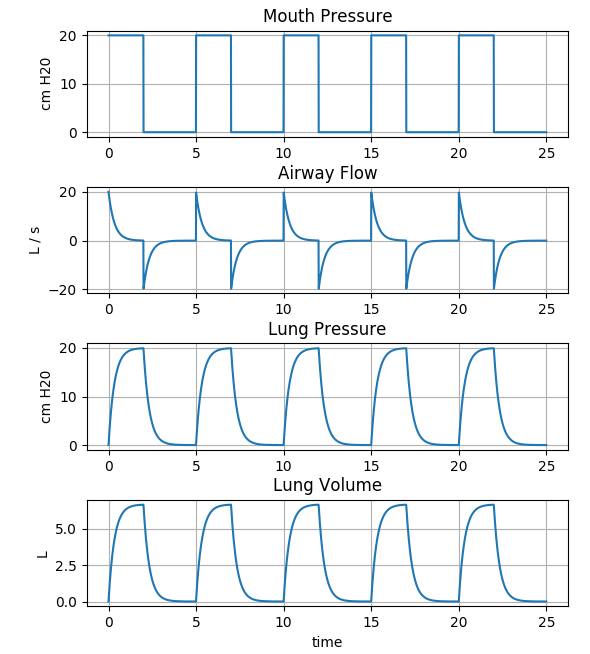
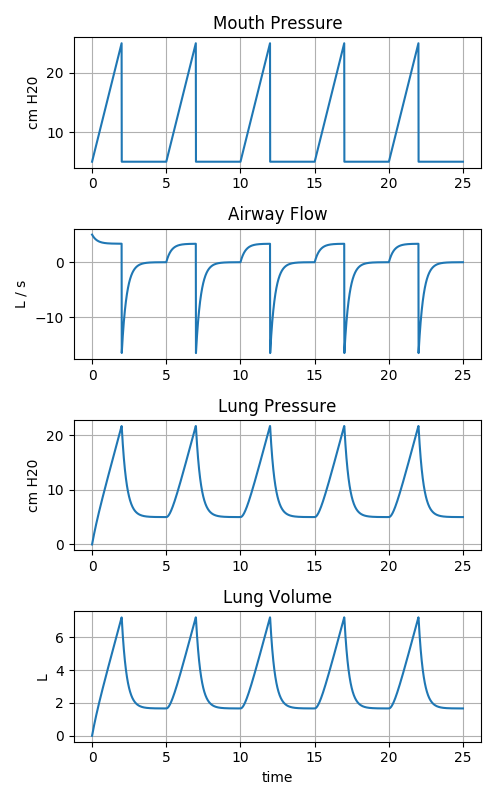
switch to ramp excitation

Changed region(s): [[0.03, 0.0, 0.99, 1.0], [0.06, 0.8257, 0.09, 0.8563]]

diff --git a/simulation/cycle.py b/simulation/cycle.py
@@ -7,7 +7,7 @@ sample_rate = 100
 rate = 12 # (breaths / min)
 time_inspiration = 2 # (s)
 pressure_level = 20 # peak pressure (cm H20)
-peep = 0 # (cm H20)
+peep = 5 # (cm H20)
 simulated_cycles = 5
 
 lung_compliance = 0.3 # (L / cm H20)
@@ -25,13 +25,13 @@ t = np.linspace(
 
 v_mouth = np.zeros(int(total_cycle_time * sample_rate))
 # rect
-v_mouth[:time_inspiration * sample_rate] = pressure_level
+# v_mouth[:time_inspiration * sample_rate] = pressure_level
 # ramp
-# v_mouth[:time_inspiration * sample_rate] = np.linspace(
-#     0,
-#     pressure_level,
-#     time_inspiration * sample_rate
-# )
+v_mouth[:time_inspiration * sample_rate] = np.linspace(
+    0,
+    pressure_level,
+    time_inspiration * sample_rate
+)
 v_mouth += peep
 v_mouth = np.tile(v_mouth, simulated_cycles)
 

diff --git a/notes.md b/notes.md
@@ -1,0 +1,91 @@
+- alarm - SFM-27 https://www.youtube.com/watch?v=LLGMlErc0yQ
+- esp8266 bulk US - https://www.ebay.com/itm/5X-ESP8266-ESP-12E-802-11n-WIFI-USB-Development-Board-Arduino-MicroPython-5-Pack/132532596048?hash=item1edb8eed50:g:Z3QAAOSwsnVdyOf-
+
+- esp8266 bulk - https://www.aliexpress.com/item/32665100123.html?spm=a2g0o.productlist.0.0.3ffc15495JaD23&algo_pvid=1e29147f-2a71-40df-94b8-4b58d9622e4f&algo_expid=1e29147f-2a71-40df-94b8-4b58d9622e4f-0&btsid=0ab6d69f15850880382543898e3676&ws_ab_test=searchweb0_0,searchweb201602_,searchweb201603_
+
+- 0.2 Hz
+
+- kivy signed build - https://groups.google.com/forum/#!topic/kivy-users/pBtbg8aSlNo
+- kivy listview update - https://groups.google.com/forum/#!topic/kivy-users/D7kaXll-rj8
+
+huge dirs:
+
+- ~/.local/share/python-for-android
+- ~/.buildozer
+
+### when to raise alarm
+
+- respiratory rate too high or too low
+
+### Definitions
+
+- [ventilator control modes](https://www.youtube.com/watch?v=gk_Qf-JAL84)
+- [respiratory cycle example](https://www.youtube.com/watch?v=K0maLgTzIto)
+- [pressure control ventilation](https://www.youtube.com/watch?v=h-I6XE6EfMY)
+
+- WOB - work of breathing - 
+- compliance - ΔV/ΔP - analogous to stiffness constant of spring (inverted)
+- restrictive lung disease - condition in which compliance of lung is reduced.  Greater pressure needed to deliver same volume of air
+- FIO2 - fractional inspiration of oxygen - percent of air volume oxygen
+- CMV - continuous mandatory control
+- IMV - intermittent mandatory control
+- TCT - total cycle time (60 / rate)
+- Ti - inspiration time
+- Te - expiration time
+- PC - pressure control
+- AC - assist control
+- PEEP - positive-end expiratory pressure
+
+
+- ventilator modes
+  - AC - assist control - ventilator control mode where specific volume is delivered to patient in each cycle
+    - patient triggers ventilator
+    - set tidal volume, instantaneous pressure dependent on lung compliance
+    - e.g. 500-600cc of air delivered (8mL/kg bodyweight)
+  - PC - pressure control - 
+    - patient or ventilator trigger inspiration
+    - set tidal pressure, instantaneous volume dependent on lung compliance
+    - if compliance of lungs changes, inspired volume can change
+  - CPAP - non-invasive ventilation, facemask instead of tracheal tube, sleep apnea
+    - devices often have a PEEP setting
+    - PEEP - positive-end expiratory pressure - positive pressure setting after expiration
+      - prevents sleep apnea, tongue back
+      - keeps alveoli open
+      - set pressure (cm water pressure, e.g. 5-20 cm)
+  - PS - pressure support
+    - patient initiates all breaths (e.g. 5-15 cm pressure)
+    
+- 
+
+### Example Orders for Ventilator
+- AC 16 - assist control, backup rate 16 breaths per minute
+  - rate: 16
+  - tidal volume: 550mL
+  - FIO2: 50%
+  - PEEP: 5
+  - optional: inspiratory flow
+  
+- PC
+  - pressure control level (defined absolutely or amount above PEEP)
+  - rate
+  - Ti (amount of time pressure held high?)
+  - PEEP
+  - FiO2
+  - Sensitivity
+  
+
+### Problems in AC Mode Ventilation
+
+- [detecting respiratory cycle problems](https://www.youtube.com/watch?v=6Bdv7QhNNy4)
+
+- assist control
+  - high peak pressure (poor airway flow) (also called Pplat, MAP mean error press., Paw peak airway)
+    - bronchiospasms
+    - secretions
+    - mucus plug
+    - tracheal tube occlusion
+  - high plateau pressure (low lung compliance)
+    - pneumothorax
+    - pulmonary edema
+    - ARDS
+    - pneumonia
